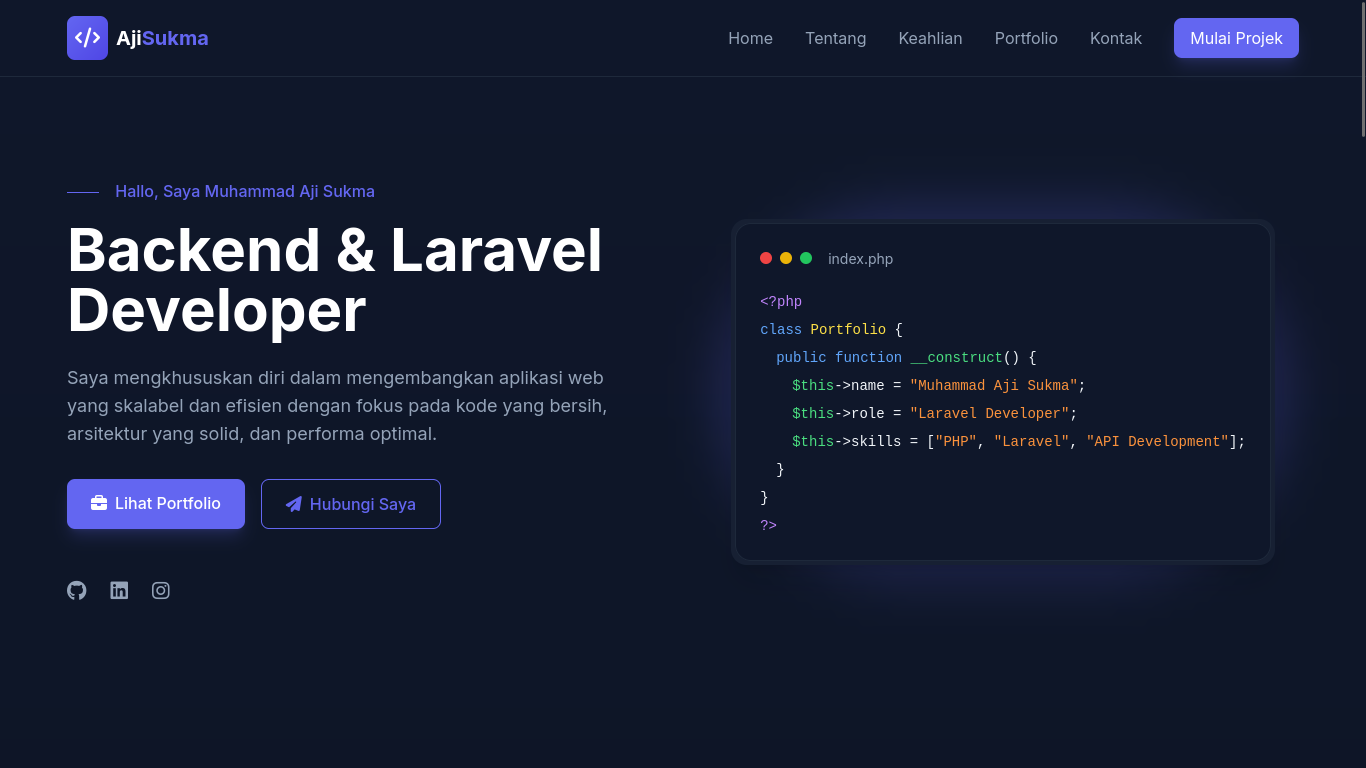
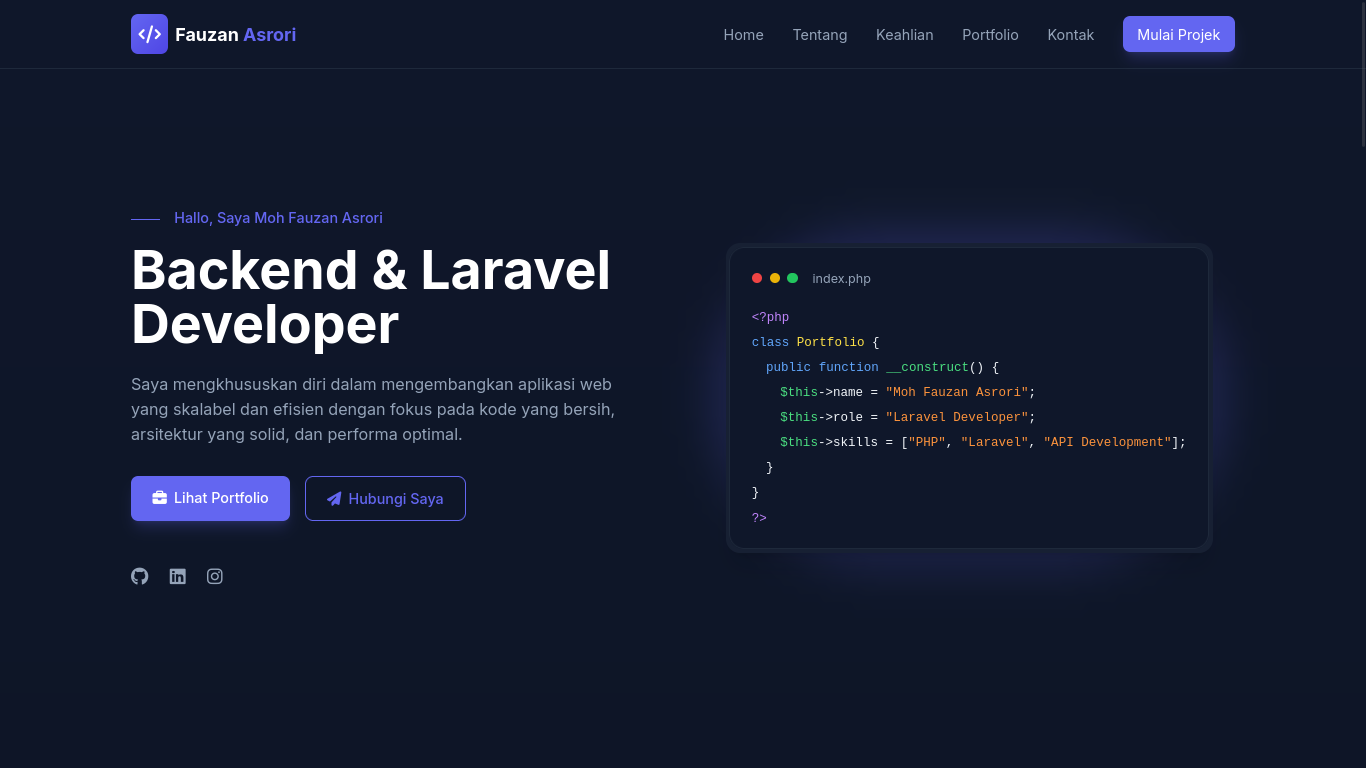
update content

diff --git a/index.html b/index.html
@@ -3,7 +3,7 @@
   <head>
     <meta charset="UTF-8" />
     <meta name="viewport" content="width=device-width, initial-scale=1.0" />
-    <title>Muhammad Aji Sukma | Laravel & Backend Developer</title>
+    <title>Moh Fauzan Asrori | React & Frontend Developer</title>
 
     <!-- Tailwind CSS CDN -->
     <script src="https://cdn.tailwindcss.com"></script>
@@ -76,7 +76,7 @@
             <i class="fas fa-code text-white"></i>
           </div>
           <span class="text-white"
-            >Aji<span class="text-accent">Sukma</span></span
+            >Fauzan <span class="text-accent">Asrori</span></span
           >
         </a>
 
@@ -164,7 +164,7 @@
     </header>
 
     <!-- Hero Section -->
-    <section id="home" class="min-h-screen flex items-center pt-20 pb-16">
+    <section id="home" class="min-h-screen flex items-center pt-24 pb-16">
       <div class="container mx-auto px-6">
         <div class="grid md:grid-cols-2 gap-12 items-center">
           <div class="text-center md:text-left animate-fade-in">
@@ -172,7 +172,7 @@
               <span
                 class="w-8 h-px bg-accent inline-block mr-3 align-middle"
               ></span>
-              Hallo, Saya Muhammad Aji Sukma
+              Hallo, Saya Moh Fauzan Asrori
             </p>
             <h1
               class="text-4xl md:text-5xl lg:text-6xl font-bold text-white mb-6"
@@ -203,19 +203,19 @@
 
             <div class="flex gap-6 mt-12 justify-center md:justify-start">
               <a
-                href="https://github.com/sukmaajidigital"
+                href="https://github.com/BitwiseJs"
                 class="text-slate-dark hover:text-accent text-xl transition-all"
               >
                 <i class="fab fa-github"></i>
               </a>
               <a
-                href="https://www.linkedin.com/in/sukma-aji-08b470286/"
+                href="https://www.linkedin.com/in/moh-fauzan-asrori/"
                 class="text-slate-dark hover:text-accent text-xl transition-all"
               >
                 <i class="fab fa-linkedin"></i>
               </a>
               <a
-                href="https://instagram.com/sukmaaji.digital"
+                href="https://instagram.com/mohfauzanasrori"
                 class="text-slate-dark hover:text-accent text-xl transition-all"
               >
                 <i class="fab fa-instagram"></i>
@@ -252,7 +252,7 @@
                     </div>
                     <div class="ml-8">
                       <span class="text-green-400">$this</span>-&gt;name =
-                      <span class="text-orange-400">"Muhammad Aji Sukma"</span>;
+                      <span class="text-orange-400">"Moh Fauzan Asrori"</span>;
                     </div>
                     <div class="ml-8">
                       <span class="text-green-400">$this</span>-&gt;role =
@@ -470,10 +470,6 @@
                 <span class="text-white">Laravel</span>
               </div>
               <div class="bg-dark-300 p-4 rounded-lg flex items-center">
-                <i class="fab fa-livewire text-blue-500 text-2xl mr-3"></i>
-                <span class="text-white">Livewire</span>
-              </div>
-              <div class="bg-dark-300 p-4 rounded-lg flex items-center">
                 <i class="fas fa-database text-yellow-500 text-2xl mr-3"></i>
                 <span class="text-white">MySQL</span>
               </div>
@@ -484,10 +480,6 @@
               <div class="bg-dark-300 p-4 rounded-lg flex items-center">
                 <i class="fab fa-git-alt text-orange-500 text-2xl mr-3"></i>
                 <span class="text-white">Git</span>
-              </div>
-              <div class="bg-dark-300 p-4 rounded-lg flex items-center">
-                <i class="fas fa-server text-green-500 text-2xl mr-3"></i>
-                <span class="text-white">Nginx</span>
               </div>
               <div class="bg-dark-300 p-4 rounded-lg flex items-center">
                 <i class="fab fa-ubuntu text-orange-400 text-2xl mr-3"></i>
@@ -518,7 +510,7 @@
           </p>
         </div>
 
-        <div class="grid md:grid-cols-2 gap-8">
+        <div class="grid md:grid-cols-3 gap-8">
           <div
             class="bg-dark-200 rounded-2xl overflow-hidden border border-dark-100 card-hover"
           >
@@ -570,7 +562,7 @@
                   <i class="fas fa-external-link-alt mr-1"></i> Lihat Detail
                 </a>
                 <a
-                  href="https://github.com/sukmaajidigital"
+                  href="https://github.com/BitwiseJs"
                   class="text-slate-dark hover:text-white"
                 >
                   <i class="fab fa-github text-lg"></i>
@@ -630,7 +622,67 @@
                   <i class="fas fa-external-link-alt mr-1"></i> Lihat Detail
                 </a>
                 <a
-                  href="https://github.com/sukmaajidigital"
+                  href="https://github.com/BitwiseJs"
+                  class="text-slate-dark hover:text-white"
+                >
+                  <i class="fab fa-github text-lg"></i>
+                </a>
+              </div>
+            </div>
+          </div>
+
+          <div
+            class="bg-dark-200 rounded-2xl overflow-hidden border border-dark-100 card-hover"
+          >
+            <div
+              class="h-48 bg-gradient-to-r from-green-600 to-teal-600 relative overflow-hidden"
+            >
+              <div
+                class="absolute inset-0 bg-dark-400/30 flex items-center justify-center"
+              >
+                <span
+                  class="bg-white text-dark-300 px-4 py-2 rounded-lg font-semibold"
+                  >API Development</span
+                >
+              </div>
+            </div>
+            <div class="p-6">
+              <h3 class="text-xl font-semibold text-white mb-2">
+                Platform E-commerce API
+              </h3>
+              <p class="text-slate-dark mb-4">
+                RESTful API untuk platform e-commerce dengan fitur pembayaran,
+                keranjang, dan manajemen produk.
+              </p>
+
+              <div class="flex flex-wrap gap-2 mb-4">
+                <span
+                  class="text-xs bg-accent/20 text-accent px-3 py-1 rounded-full"
+                  >Laravel</span
+                >
+                <span
+                  class="text-xs bg-accent/20 text-accent px-3 py-1 rounded-full"
+                  >API</span
+                >
+                <span
+                  class="text-xs bg-accent/20 text-accent px-3 py-1 rounded-full"
+                  >JWT</span
+                >
+                <span
+                  class="text-xs bg-accent/20 text-accent px-3 py-1 rounded-full"
+                  >PostgreSQL</span
+                >
+              </div>
+
+              <div class="flex justify-between items-center">
+                <a
+                  href="#"
+                  class="text-accent hover:text-accent-light text-sm font-medium"
+                >
+                  <i class="fas fa-external-link-alt mr-1"></i> Lihat Detail
+                </a>
+                <a
+                  href="https://github.com/BitwiseJs"
                   class="text-slate-dark hover:text-white"
                 >
                   <i class="fab fa-github text-lg"></i>
@@ -642,7 +694,7 @@
 
         <div class="text-center mt-12">
           <a
-            href="https://github.com/sukmaajidigital"
+            href="https://github.com/BitwiseJs"
             class="inline-flex items-center border border-accent text-accent px-6 py-3 rounded-lg font-medium hover:bg-accent/10 transition"
           >
             <i class="fab fa-github mr-2"></i>Lihat Lebih Banyak di GitHub
@@ -673,9 +725,9 @@
               <i class="fas fa-envelope text-white text-2xl"></i>
             </div>
             <h3 class="text-white font-semibold mb-2">Email</h3>
-            <p class="text-slate-dark mb-3">sukmaajidigital@gmail.com</p>
+            <p class="text-slate-dark mb-3">mohfauzanasrori@gmail.com</p>
             <a
-              href="mailto:sukmaajidigital@gmail.com"
+              href="mailto:mohfauzanasrori@gmail.com"
               class="text-accent text-sm hover:text-accent-light"
             >
               Kirim Pesan <i class="fas fa-arrow-right ml-1 text-xs"></i>
@@ -689,9 +741,9 @@
               <i class="fab fa-linkedin text-white text-2xl"></i>
             </div>
             <h3 class="text-white font-semibold mb-2">LinkedIn</h3>
-            <p class="text-slate-dark mb-3">sukma-aji-08b470286</p>
+            <p class="text-slate-dark mb-3">Moh Fauzan Asrori</p>
             <a
-              href="https://www.linkedin.com/in/sukma-aji-08b470286/"
+              href="https://www.linkedin.com/in/moh-fauzan-asrori/"
               target="_blank"
               class="text-accent text-sm hover:text-accent-light"
             >
@@ -706,9 +758,9 @@
               <i class="fab fa-whatsapp text-white text-2xl"></i>
             </div>
             <h3 class="text-white font-semibold mb-2">WhatsApp</h3>
-            <p class="text-slate-dark mb-3">+62 812-3456-7890</p>
+            <p class="text-slate-dark mb-3">+62 889-8079-8945</p>
             <a
-              href="https://wa.me/6281234567890"
+              href="https://wa.me/6288980798945"
               target="_blank"
               class="text-accent text-sm hover:text-accent-light"
             >
@@ -761,7 +813,7 @@
             <i class="fas fa-code text-white"></i>
           </div>
           <span class="text-white"
-            >Aji<span class="text-accent">Sukma</span></span
+            >Fauzan <span class="text-accent">Asrori</span></span
           >
         </a>
 
@@ -772,37 +824,30 @@
 
         <div class="flex justify-center space-x-6 my-6">
           <a
-            href="https://github.com/sukmaajidigital"
+            href="https://github.com/BitwiseJs"
             target="_blank"
             class="text-slate-dark hover:text-accent text-xl transition-all"
           >
             <i class="fab fa-github"></i>
           </a>
           <a
-            href="https://www.linkedin.com/in/sukma-aji-08b470286/"
+            href="https://www.linkedin.com/in/moh-fauzan-asrori/"
             target="_blank"
             class="text-slate-dark hover:text-accent text-xl transition-all"
           >
             <i class="fab fa-linkedin"></i>
           </a>
           <a
-            href="https://instagram.com/sukmaaji.digital"
+            href="https://instagram.com/mohfauzanasrori"
             target="_blank"
             class="text-slate-dark hover:text-accent text-xl transition-all"
           >
             <i class="fab fa-instagram"></i>
           </a>
-          <a
-            href="https://twitter.com/sukmaaji"
-            target="_blank"
-            class="text-slate-dark hover:text-accent text-xl transition-all"
-          >
-            <i class="fab fa-twitter"></i>
-          </a>
         </div>
 
         <p class="text-sm text-slate-dark">
-          &copy; 2023 Muhammad Aji Sukma. All rights reserved.
+          &copy; <span id="year"></span> Moh Fauzan Asrori. All rights reserved.
         </p>
       </div>
     </footer>

diff --git a/js/script.js b/js/script.js
@@ -58,4 +58,12 @@ document.addEventListener("DOMContentLoaded", function () {
   if (skillsSection) {
     observer.observe(skillsSection);
   }
+
+  document.getElementById("year").textContent = new Date().getFullYear();
+
+  // ambil semua link
+  document.querySelectorAll('a[href]:not([href^="#"])').forEach((link) => {
+    link.setAttribute("target", "_blank");
+    link.setAttribute("rel", "noopener noreferrer"); // best practice
+  });
 });

diff --git a/README.md b/README.md
@@ -1,6 +1,6 @@
-# Portfolio Website - Muhammad Aji Sukma
+# Portfolio Website - Moh Fauzan Asrori
 
-![Portfolio Preview](https://img.shields.io/badge/Portfolio-Laravel_Developer-blueviolet)
+![Portfolio Preview](https://img.shields.io/badge/Portfolio-Website-blueviolet)
 ![Status](https://img.shields.io/badge/Status-Live-success)
 ![Responsive](https://img.shields.io/badge/Design-Responsive-blue)
 
